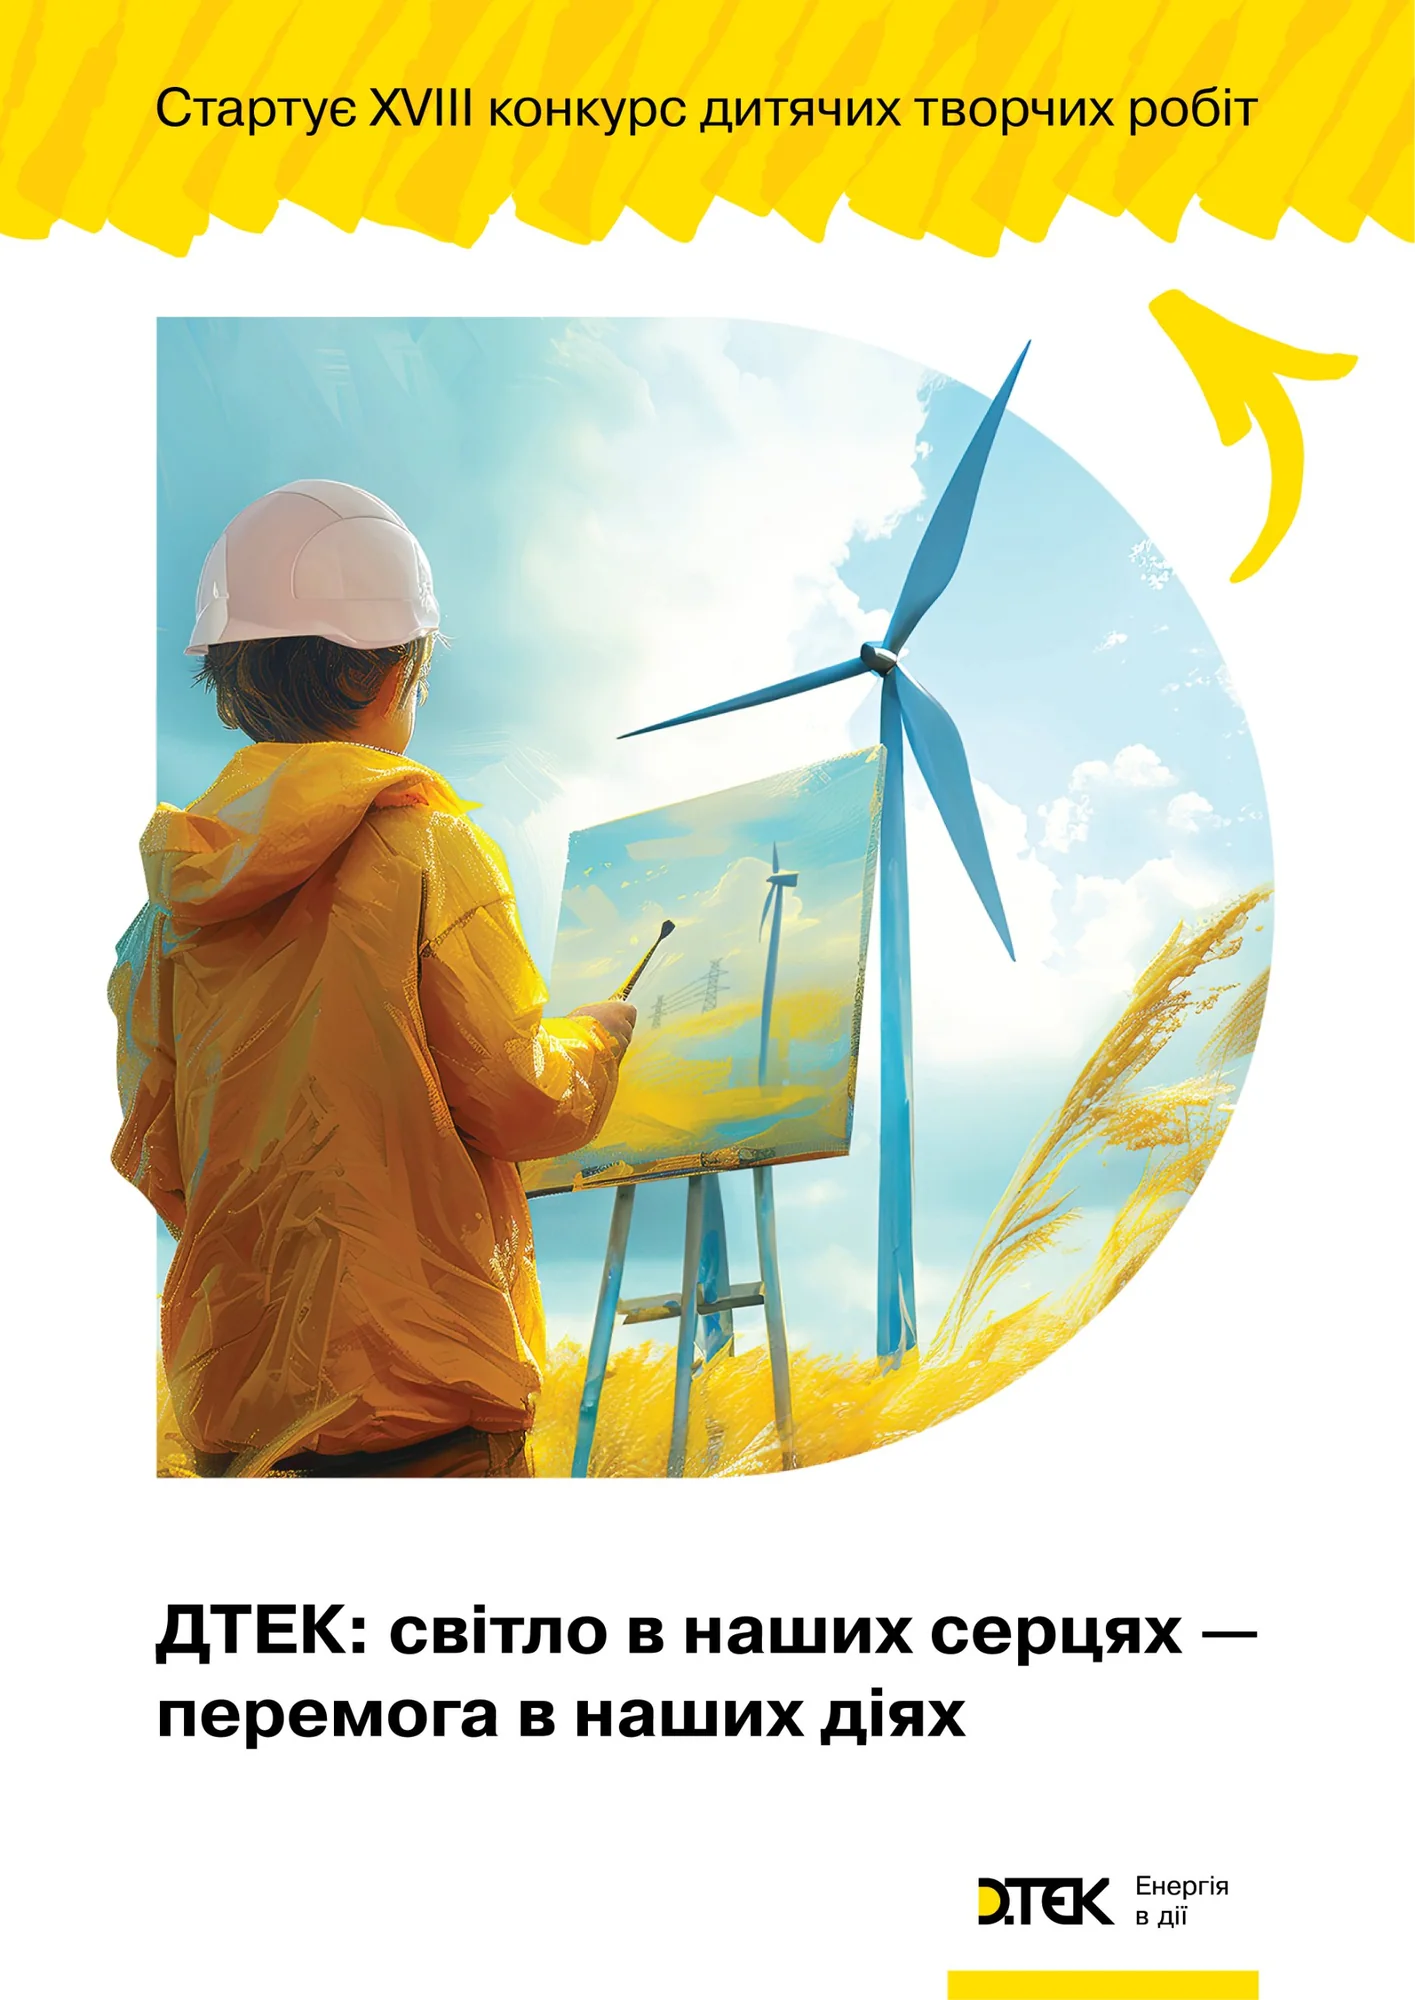
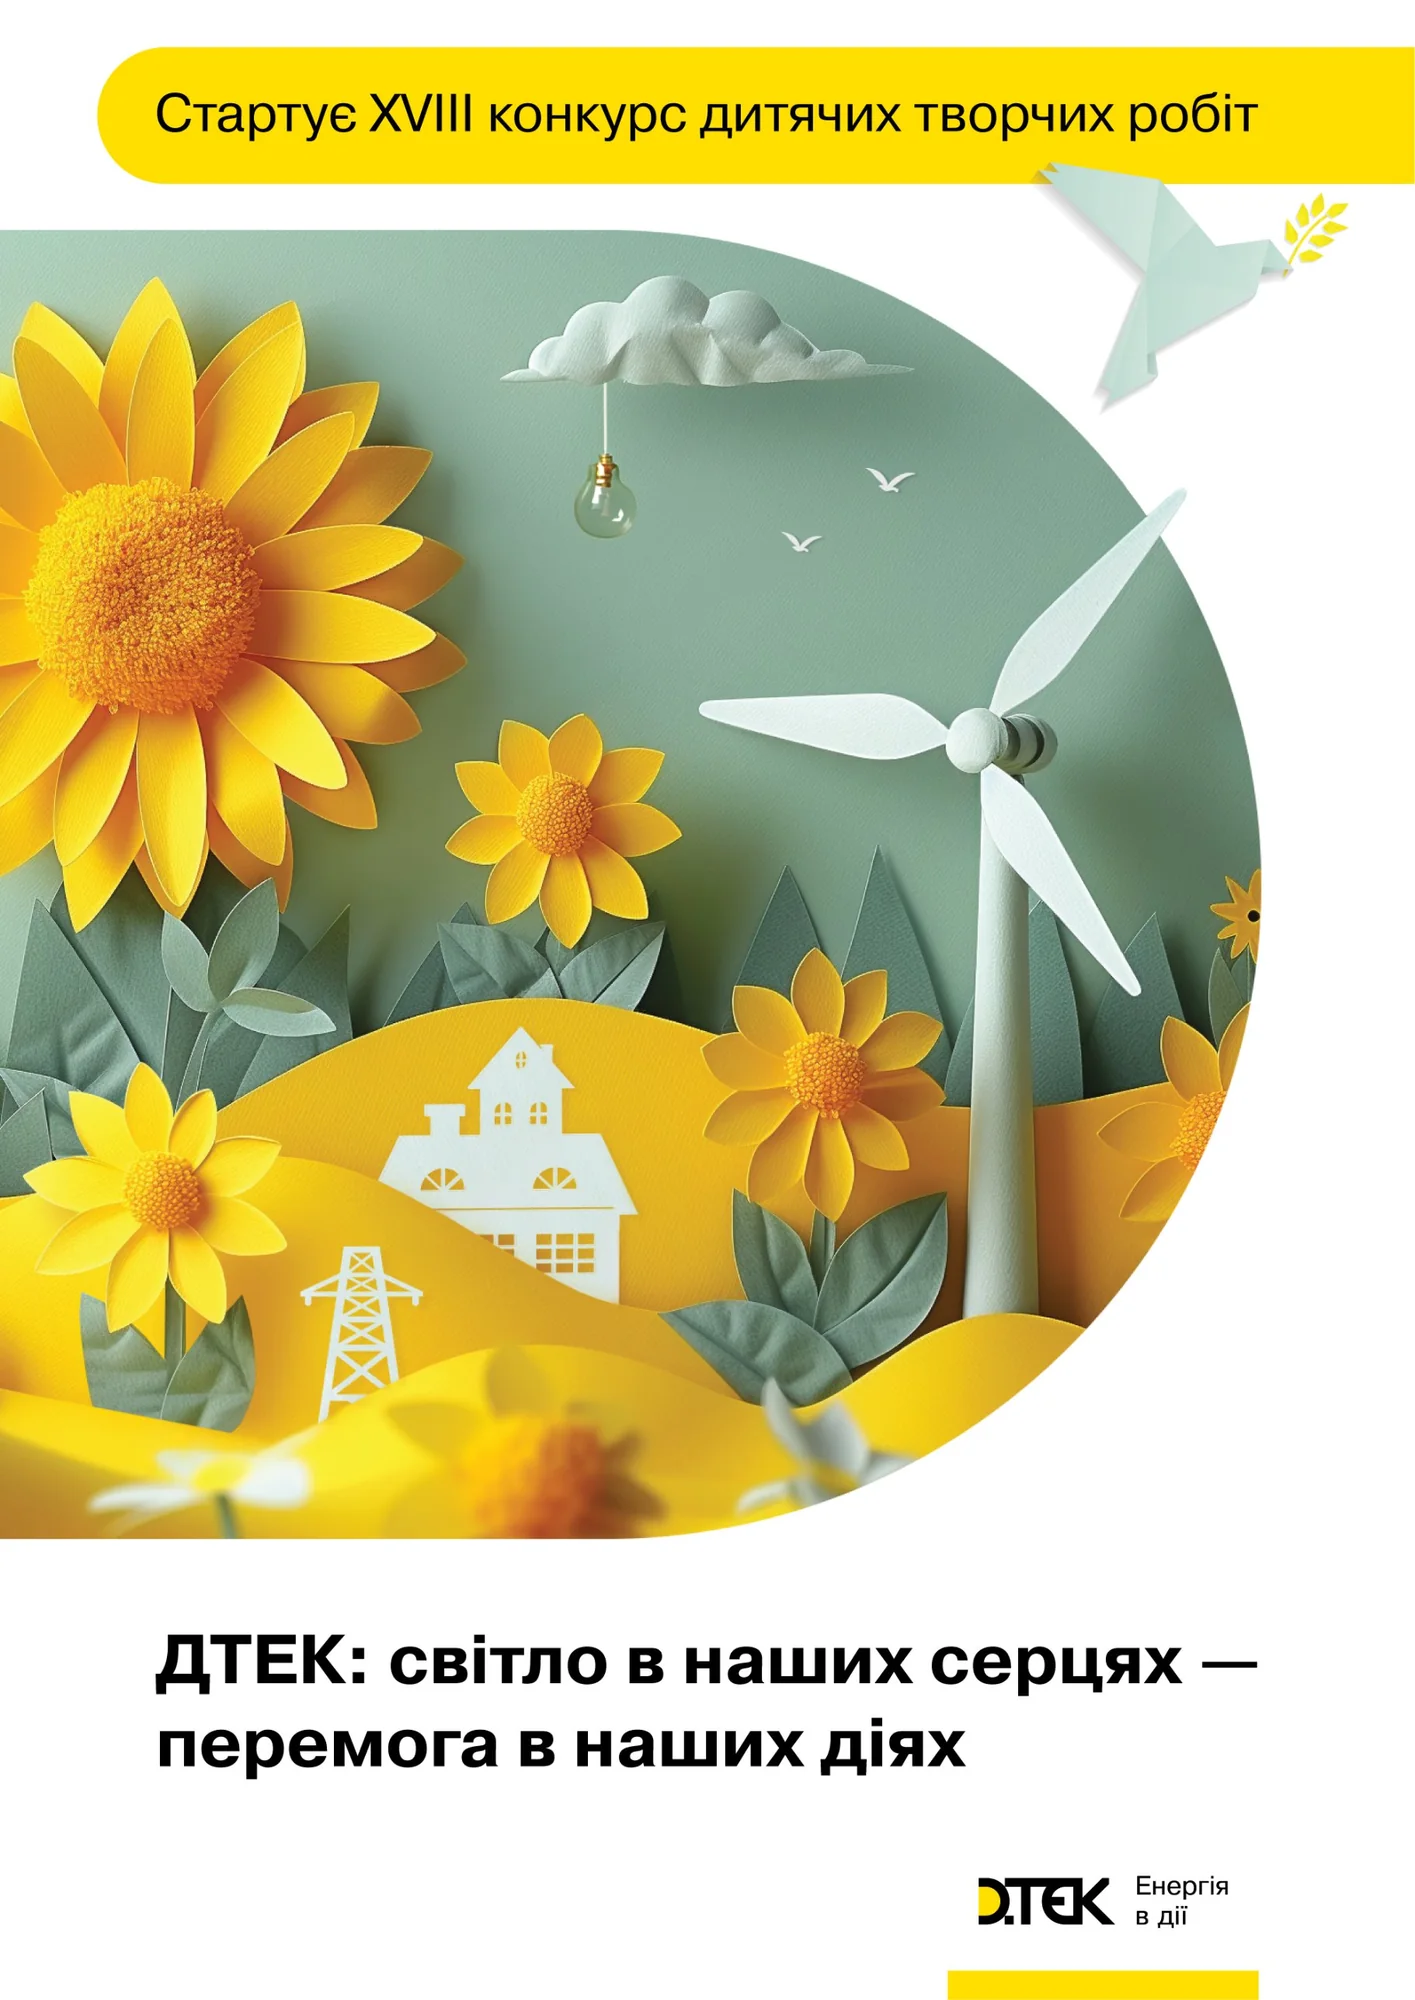
AI popup: contest poster with the child painter goes first
Claude-Session: https://claude.ai/code/session_015TFhS8os7AWGrdWdPo6Nzt

diff --git a/index.html b/index.html
@@ -762,8 +762,8 @@
           <div class="pg-split">
           <figure class="pg-shots sh-below sh-poster" tabindex="0" role="group" aria-roledescription="carousel" aria-label="Постери конкурсу дитячих творчих робіт: гортайте стрілками або свайпом · Contest posters: use arrows or swipe">
             <div class="sh-track">
-              <img src="ai-kids-1.webp" width="1415" height="2000" alt="Постер ДТЕК «Стартує XVIII конкурс дитячих творчих робіт»: паперові соняшники та вітряк · DTEK poster for the 18th children’s creative works contest" loading="lazy" decoding="async" draggable="false">
-              <img src="ai-kids-2.webp" width="1415" height="2000" alt="Постер ДТЕК «Стартує XVIII конкурс дитячих творчих робіт»: дитина в касці малює вітряк · DTEK poster for the 18th children’s creative works contest" loading="lazy" decoding="async" draggable="false">
+              <img src="ai-kids-1.webp" width="1415" height="2000" alt="Постер ДТЕК «Стартує XVIII конкурс дитячих творчих робіт»: дитина в касці малює вітряк · DTEK poster for the 18th children’s creative works contest" loading="lazy" decoding="async" draggable="false">
+              <img src="ai-kids-2.webp" width="1415" height="2000" alt="Постер ДТЕК «Стартує XVIII конкурс дитячих творчих робіт»: паперові соняшники та вітряк · DTEK poster for the 18th children’s creative works contest" loading="lazy" decoding="async" draggable="false">
               <img src="ai-kids-3.webp" width="1415" height="2000" alt="Постер ДТЕК «Стартує XVIII конкурс дитячих творчих робіт»: дитячий малюнок із сонцем, будинком і вітряками · DTEK poster for the 18th children’s creative works contest" loading="lazy" decoding="async" draggable="false">
             </div>
             <div class="s3d-ui sh-zoom">
